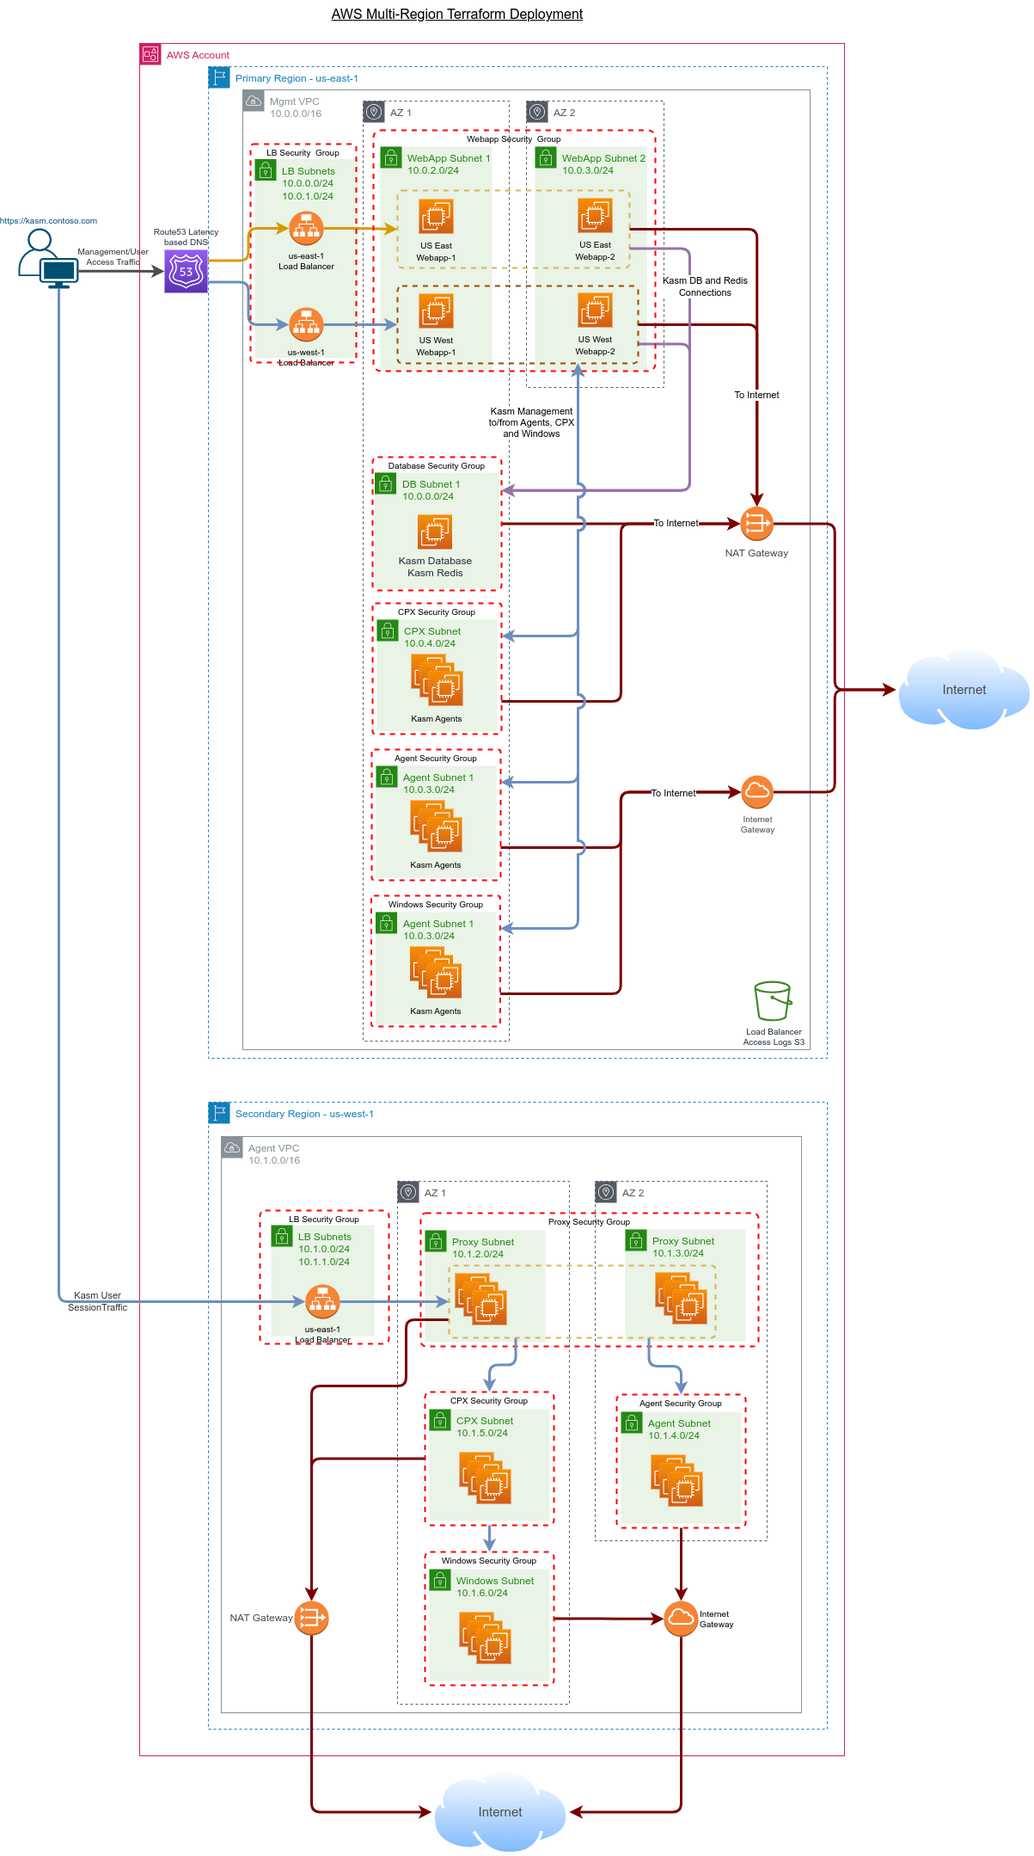
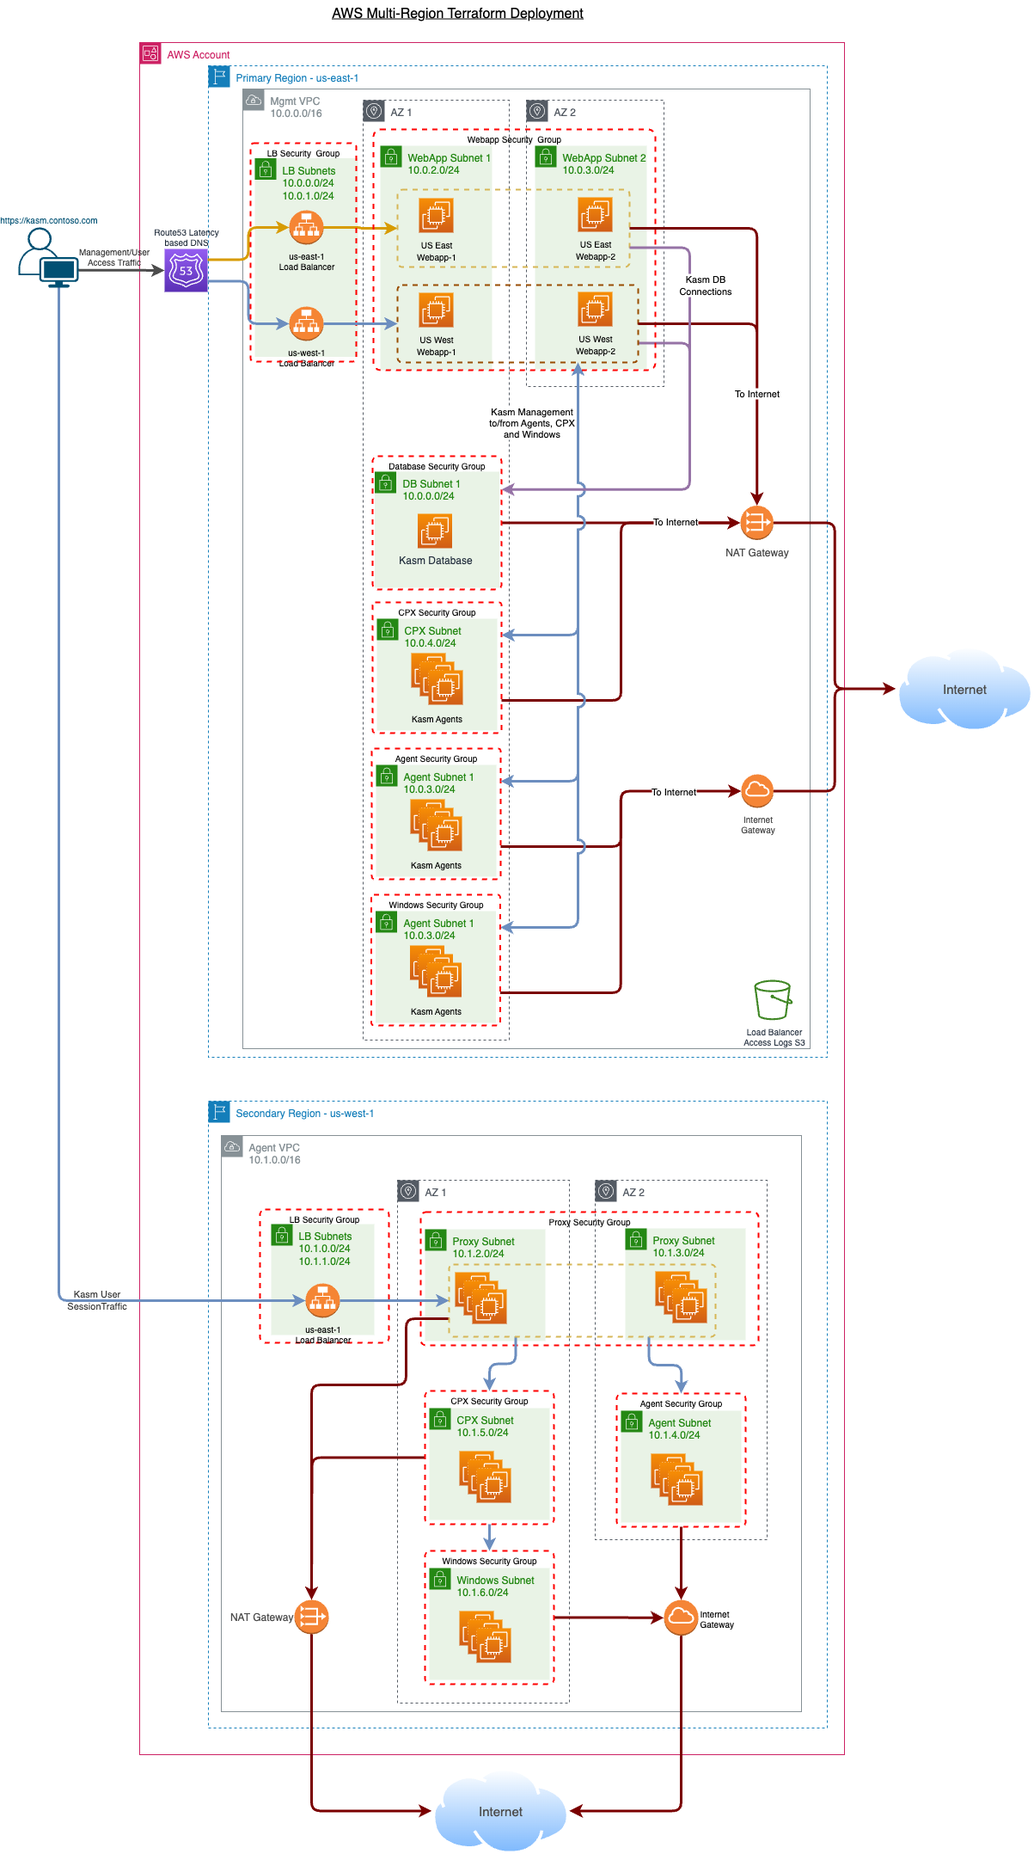
KASM-7433 "Feature/ update ancillary repos that handle install stigs etc for removal of share functionality"

diff --git a/gcp/README.md b/gcp/README.md
@@ -121,7 +121,6 @@ No resources.
 | <a name="input_kasm_firewall_security_tags"></a> [kasm\_firewall\_security\_tags](#input\_kasm\_firewall\_security\_tags) | Firewall tags to use for Kasm CPX firewall rules | <pre>object({<br>    webapp   = list(string)<br>    database = list(string)<br>    agent    = list(string)<br>    cpx      = optional(list(string), [])<br>    windows  = optional(list(string), [])<br>  })</pre> | <pre>{<br>  "agent": [<br>    "kasm-agent"<br>  ],<br>  "cpx": [<br>    "kasm-cpx"<br>  ],<br>  "database": [<br>    "database"<br>  ],<br>  "webapp": [<br>    "webapp"<br>  ],<br>  "windows": [<br>    "kasm-windows"<br>  ]<br>}</pre> | no |
 | <a name="input_kasm_manager_token"></a> [kasm\_manager\_token](#input\_kasm\_manager\_token) | The manager token value for Agents to authenticate to webapps. No special characters | `string` | `""` | no |
 | <a name="input_kasm_project_name"></a> [kasm\_project\_name](#input\_kasm\_project\_name) | Kasm deployment project name (separate from GCP Project id or Project Name) | `string` | `""` | no |
-| <a name="input_kasm_redis_password"></a> [kasm\_redis\_password](#input\_kasm\_redis\_password) | The password for the Redis server. No special characters | `string` | `""` | no |
 | <a name="input_kasm_service_token"></a> [kasm\_service\_token](#input\_kasm\_service\_token) | The service registration token value for Guac RDP servers to authenticate to webapps. No special characters | `string` | `""` | no |
 | <a name="input_kasm_source_image"></a> [kasm\_source\_image](#input\_kasm\_source\_image) | The source VM Image information to use for deploying Kasm. Recommended to use Ubuntu 20.04 Minimal. You can either explicitly define the source image to use, or the image project and family so that Terraform always chooses the latest. | <pre>object({<br>    source_image = optional(string, null)<br>    project      = optional(string, null)<br>    family       = optional(string, null)<br>  })</pre> | <pre>{<br>  "family": "ubuntu-minimal-2004-lts",<br>  "project": "ubuntu-os-cloud"<br>}</pre> | no |
 | <a name="input_kasm_user_password"></a> [kasm\_user\_password](#input\_kasm\_user\_password) | The standard (non administrator) user password. No special characters | `string` | `""` | no |
@@ -240,7 +239,6 @@ No resources.
 | <a name="input_kasm_firewall_security_tags"></a> [kasm\_firewall\_security\_tags](#input\_kasm\_firewall\_security\_tags) | Firewall tags to use for Kasm CPX firewall rules | <pre>object({<br>    webapp   = list(string)<br>    database = list(string)<br>    agent    = list(string)<br>    cpx      = optional(list(string), [])<br>    windows  = optional(list(string), [])<br>  })</pre> | <pre>{<br>  "agent": [<br>    "kasm-agent"<br>  ],<br>  "cpx": [<br>    "kasm-cpx"<br>  ],<br>  "database": [<br>    "database"<br>  ],<br>  "webapp": [<br>    "webapp"<br>  ],<br>  "windows": [<br>    "kasm-windows"<br>  ]<br>}</pre> | no |
 | <a name="input_kasm_manager_token"></a> [kasm\_manager\_token](#input\_kasm\_manager\_token) | The manager token value for Agents to authenticate to webapps. No special characters | `string` | `""` | no |
 | <a name="input_kasm_project_name"></a> [kasm\_project\_name](#input\_kasm\_project\_name) | Kasm deployment project name (separate from GCP Project id or Project Name) | `string` | `""` | no |
-| <a name="input_kasm_redis_password"></a> [kasm\_redis\_password](#input\_kasm\_redis\_password) | The password for the Redis server. No special characters | `string` | `""` | no |
 | <a name="input_kasm_service_token"></a> [kasm\_service\_token](#input\_kasm\_service\_token) | The service registration token value for Guac RDP servers to authenticate to webapps. No special characters | `string` | `""` | no |
 | <a name="input_kasm_source_image"></a> [kasm\_source\_image](#input\_kasm\_source\_image) | The source VM Image information to use for deploying Kasm. Recommended to use Ubuntu 20.04 Minimal. You can either explicitly define the source image to use, or the image project and family so that Terraform always chooses the latest. | <pre>object({<br>    source_image = optional(string, null)<br>    project      = optional(string, null)<br>    family       = optional(string, null)<br>  })</pre> | <pre>{<br>  "family": "ubuntu-minimal-2004-lts",<br>  "project": "ubuntu-os-cloud"<br>}</pre> | no |
 | <a name="input_kasm_user_password"></a> [kasm\_user\_password](#input\_kasm\_user\_password) | The standard (non administrator) user password. No special characters | `string` | `""` | no |

diff --git a/aws/standard/module/README.md b/aws/standard/module/README.md
@@ -119,7 +119,7 @@ No modules.
 | <a name="input_database_password"></a> [database\_password](#input\_database\_password) | The password for the database. No special characters | `string` | n/a | yes |
 | <a name="input_db_hdd_size_gb"></a> [db\_hdd\_size\_gb](#input\_db\_hdd\_size\_gb) | The HDD size for Kasm DB | `number` | n/a | yes |
 | <a name="input_db_instance_type"></a> [db\_instance\_type](#input\_db\_instance\_type) | The instance type for the Database | `string` | `"t3.small"` | no |
-| <a name="input_db_security_rules"></a> [db\_security\_rules](#input\_db\_security\_rules) | A map of objects of security rules to apply to the Kasm DB | <pre>map(object({<br>    from_port = number<br>    to_port   = number<br>    protocol  = string<br>  }))</pre> | <pre>{<br>  "postgres": {<br>    "from_port": 5432,<br>    "protocol": "tcp",<br>    "to_port": 5432<br>  },<br>  "redis": {<br>    "from_port": 6379,<br>    "protocol": "tcp",<br>    "to_port": 6379<br>  }<br>}</pre> | no |
+| <a name="input_db_security_rules"></a> [db\_security\_rules](#input\_db\_security\_rules) | A map of objects of security rules to apply to the Kasm DB | <pre>map(object({<br>    from_port = number<br>    to_port   = number<br>    protocol  = string<br>  }))</pre> | <pre>{<br>  "postgres": {<br>    "from_port": 5432,<br>    "protocol": "tcp",<br>    "to_port": 5432<br>  }<br>}</pre> | no |
 | <a name="input_default_egress"></a> [default\_egress](#input\_default\_egress) | Default egress security rule for all security groups | <pre>map(object({<br>    from_port    = number<br>    to_port      = number<br>    protocol     = string<br>    cidr_subnets = list(string)<br>  }))</pre> | <pre>{<br>  "all": {<br>    "cidr_subnets": [<br>      "0.0.0.0/0"<br>    ],<br>    "from_port": 0,<br>    "protocol": "-1",<br>    "to_port": 0<br>  }<br>}</pre> | no |
 | <a name="input_ec2_ami"></a> [ec2\_ami](#input\_ec2\_ami) | The AMI used for the EC2 nodes. Recommended Ubuntu 20.04 LTS. | `string` | n/a | yes |
 | <a name="input_kasm_build"></a> [kasm\_build](#input\_kasm\_build) | The URL for the Kasm Workspaces build | `string` | n/a | yes |
@@ -131,7 +131,6 @@ No modules.
 | <a name="input_private_lb_security_rules"></a> [private\_lb\_security\_rules](#input\_private\_lb\_security\_rules) | A map of objects of security rules to apply to the Private ALB | <pre>map(object({<br>    from_port = number<br>    to_port   = number<br>    protocol  = string<br>  }))</pre> | <pre>{<br>  "https": {<br>    "from_port": 443,<br>    "protocol": "tcp",<br>    "to_port": 443<br>  }<br>}</pre> | no |
 | <a name="input_project_name"></a> [project\_name](#input\_project\_name) | The name of the deployment (e.g dev, staging). A short single word | `string` | n/a | yes |
 | <a name="input_public_lb_security_rules"></a> [public\_lb\_security\_rules](#input\_public\_lb\_security\_rules) | A map of objects of security rules to apply to the Public ALB | <pre>map(object({<br>    from_port = number<br>    to_port   = number<br>    protocol  = string<br>  }))</pre> | <pre>{<br>  "http": {<br>    "from_port": 80,<br>    "protocol": "tcp",<br>    "to_port": 80<br>  },<br>  "https": {<br>    "from_port": 443,<br>    "protocol": "tcp",<br>    "to_port": 443<br>  }<br>}</pre> | no |
-| <a name="input_redis_password"></a> [redis\_password](#input\_redis\_password) | The password for the Redis server. No special characters | `string` | n/a | yes |
 | <a name="input_service_registration_token"></a> [service\_registration\_token](#input\_service\_registration\_token) | The service registration token value for cpx RDP servers to authenticate to webapps. No special characters | `string` | n/a | yes |
 | <a name="input_swap_size"></a> [swap\_size](#input\_swap\_size) | The amount of swap (in MB) to configure inside the compute instances | `number` | n/a | yes |
 | <a name="input_user_password"></a> [user\_password](#input\_user\_password) | The standard (non administrator) user password. No special characters | `string` | n/a | yes |

diff --git a/aws/multi_region/primary/README.md b/aws/multi_region/primary/README.md
@@ -94,7 +94,7 @@ No modules.
 | <a name="input_database_password"></a> [database\_password](#input\_database\_password) | The password for the database. No special characters | `string` | n/a | yes |
 | <a name="input_db_hdd_size_gb"></a> [db\_hdd\_size\_gb](#input\_db\_hdd\_size\_gb) | The HDD size in GB to configure for the Kasm Database instances | `number` | n/a | yes |
 | <a name="input_db_instance_type"></a> [db\_instance\_type](#input\_db\_instance\_type) | The instance type for the Database | `string` | n/a | yes |
-| <a name="input_db_security_rules"></a> [db\_security\_rules](#input\_db\_security\_rules) | A map of objects of security rules to apply to the Kasm DB | <pre>map(object({<br>    from_port = number<br>    to_port   = number<br>    protocol  = string<br>  }))</pre> | <pre>{<br>  "postgres": {<br>    "from_port": 5432,<br>    "protocol": "tcp",<br>    "to_port": 5432<br>  },<br>  "redis": {<br>    "from_port": 6379,<br>    "protocol": "tcp",<br>    "to_port": 6379<br>  }<br>}</pre> | no |
+| <a name="input_db_security_rules"></a> [db\_security\_rules](#input\_db\_security\_rules) | A map of objects of security rules to apply to the Kasm DB | <pre>map(object({<br>    from_port = number<br>    to_port   = number<br>    protocol  = string<br>  }))</pre> | <pre>{<br>  "postgres": {<br>    "from_port": 5432,<br>    "protocol": "tcp",<br>    "to_port": 5432<br>  },<br>}</pre> | no |
 | <a name="input_default_egress"></a> [default\_egress](#input\_default\_egress) | Default egress security rule for all security groups | <pre>map(object({<br>    from_port    = number<br>    to_port      = number<br>    protocol     = string<br>    cidr_subnets = list(string)<br>  }))</pre> | <pre>{<br>  "all": {<br>    "cidr_subnets": [<br>      "0.0.0.0/0"<br>    ],<br>    "from_port": 0,<br>    "protocol": "-1",<br>    "to_port": 0<br>  }<br>}</pre> | no |
 | <a name="input_ec2_ami"></a> [ec2\_ami](#input\_ec2\_ami) | The AMI used for the EC2 nodes. Recommended Ubuntu 22.04 LTS. | `string` | n/a | yes |
 | <a name="input_kasm_build"></a> [kasm\_build](#input\_kasm\_build) | The URL for the Kasm Workspaces build | `string` | n/a | yes |
@@ -103,7 +103,6 @@ No modules.
 | <a name="input_num_webapps"></a> [num\_webapps](#input\_num\_webapps) | The number of WebApp role servers to create in the deployment | `number` | n/a | yes |
 | <a name="input_project_name"></a> [project\_name](#input\_project\_name) | The name of the deployment (e.g dev, staging). A short single word | `string` | n/a | yes |
 | <a name="input_public_lb_security_rules"></a> [public\_lb\_security\_rules](#input\_public\_lb\_security\_rules) | A map of objects of security rules to apply to the Public ALB | <pre>map(object({<br>    from_port = number<br>    to_port   = number<br>    protocol  = string<br>  }))</pre> | <pre>{<br>  "http": {<br>    "from_port": 80,<br>    "protocol": "tcp",<br>    "to_port": 80<br>  },<br>  "https": {<br>    "from_port": 443,<br>    "protocol": "tcp",<br>    "to_port": 443<br>  }<br>}</pre> | no |
-| <a name="input_redis_password"></a> [redis\_password](#input\_redis\_password) | The password for the Redis server. No special characters | `string` | n/a | yes |
 | <a name="input_service_registration_token"></a> [service\_registration\_token](#input\_service\_registration\_token) | The service registration token value for cpx RDP servers to authenticate to webapps. No special characters | `string` | n/a | yes |
 | <a name="input_swap_size"></a> [swap\_size](#input\_swap\_size) | The amount of swap (in MB) to configure inside the compute instances | `number` | n/a | yes |
 | <a name="input_user_password"></a> [user\_password](#input\_user\_password) | The standard (non administrator) user password. No special characters | `string` | n/a | yes |

diff --git a/oci/standard/module/README.md b/oci/standard/module/README.md
@@ -38,7 +38,7 @@ No modules.
 | [oci_core_route_table.internet_gateway](https://registry.terraform.io/providers/oracle/oci/latest/docs/resources/core_route_table) | resource |
 | [oci_core_route_table.nat_gateway](https://registry.terraform.io/providers/oracle/oci/latest/docs/resources/core_route_table) | resource |
 | [oci_core_security_list.allow_bastion_ssh](https://registry.terraform.io/providers/oracle/oci/latest/docs/resources/core_security_list) | resource |
-| [oci_core_security_list.allow_db_redis](https://registry.terraform.io/providers/oracle/oci/latest/docs/resources/core_security_list) | resource |
+| [oci_core_security_list.allow_db](https://registry.terraform.io/providers/oracle/oci/latest/docs/resources/core_security_list) | resource |
 | [oci_core_security_list.allow_public_ssh](https://registry.terraform.io/providers/oracle/oci/latest/docs/resources/core_security_list) | resource |
 | [oci_core_security_list.allow_rdp_to_windows](https://registry.terraform.io/providers/oracle/oci/latest/docs/resources/core_security_list) | resource |
 | [oci_core_security_list.allow_web](https://registry.terraform.io/providers/oracle/oci/latest/docs/resources/core_security_list) | resource |
@@ -95,7 +95,6 @@ No modules.
 | <a name="input_oci_domain_name"></a> [oci\_domain\_name](#input\_oci\_domain\_name) | The public Zone used for the dns entries. This must already exist in the OCI account. (e.g kasm.contoso.com). The deployment will be accessed via this zone name via https | `string` | n/a | yes |
 | <a name="input_private_key_path"></a> [private\_key\_path](#input\_private\_key\_path) | The path to the API Key PEM encoded Private Key | `string` | n/a | yes |
 | <a name="input_project_name"></a> [project\_name](#input\_project\_name) | The name of the deployment (e.g dev, staging). A short single word | `string` | n/a | yes |
-| <a name="input_redis_password"></a> [redis\_password](#input\_redis\_password) | The password for the Redis server. No special characters | `string` | n/a | yes |
 | <a name="input_region"></a> [region](#input\_region) | The OCI Region eg: (us-ashburn-1) | `string` | n/a | yes |
 | <a name="input_service_registration_token"></a> [service\_registration\_token](#input\_service\_registration\_token) | The service registration token value for cpx RDP servers to authenticate to webapps. No special characters | `string` | n/a | yes |
 | <a name="input_ssh_authorized_keys"></a> [ssh\_authorized\_keys](#input\_ssh\_authorized\_keys) | The SSH Public Keys to be installed on the OCI compute instance | `string` | n/a | yes |

diff --git a/aws/multi_region/README.md b/aws/multi_region/README.md
@@ -15,7 +15,7 @@ is deployed.
 
 ![Diagram][Image_Diagram]
 
-[Image_Diagram]: https://5856039.fs1.hubspotusercontent-na1.net/hubfs/5856039/terraform/diagrams/aws-multi-region-new.jpg "Diagram"
+[Image_Diagram]: ../readme_diagrams/multi_region.png  "Diagram"
 
 # Pre-Configuration
 
@@ -120,7 +120,6 @@ No resources.
 | <a name="input_project_name"></a> [project\_name](#input\_project\_name) | The name of the deployment (e.g dev, staging). A short single word | `string` | n/a | yes |
 | <a name="input_proxy_hdd_size_gb"></a> [proxy\_hdd\_size\_gb](#input\_proxy\_hdd\_size\_gb) | The HDD size in GB to configure for the Kasm dedicated proxy instances | `number` | n/a | yes |
 | <a name="input_proxy_instance_type"></a> [proxy\_instance\_type](#input\_proxy\_instance\_type) | The instance type for the dedicated proxy node | `string` | `""` | no |
-| <a name="input_redis_password"></a> [redis\_password](#input\_redis\_password) | The password for the Redis server. No special characters | `string` | n/a | yes |
 | <a name="input_secondary_regions_settings"></a> [secondary\_regions\_settings](#input\_secondary\_regions\_settings) | Map of Kasm settings for secondary regions | <pre>map(object({<br>    agent_region   = string<br>    agent_vpc_cidr = string<br>    ec2_ami_id     = string<br>    })<br>  )</pre> | n/a | yes |
 | <a name="input_service_registration_token"></a> [service\_registration\_token](#input\_service\_registration\_token) | The service registration token value for cpx RDP servers to authenticate to webapps. No special characters | `string` | n/a | yes |
 | <a name="input_ssh_access_cidrs"></a> [ssh\_access\_cidrs](#input\_ssh\_access\_cidrs) | CIDR notation of the bastion host allowed to SSH in to the machines | `list(string)` | <pre>[<br>  "0.0.0.0/0"<br>]</pre> | no |

diff --git a/oci/standard/README.md b/oci/standard/README.md
@@ -4,7 +4,7 @@ This project will deploy Kasm Workspaces in a multi-server deployment in OCI.
 
 ![Diagram][Image_Diagram]
 
-[Image_Diagram]: https://f.hubspotusercontent30.net/hubfs/5856039/terraform/diagrams/oci-multi-server.png "Diagram"
+[Image_Diagram]: ../readme_diagrams/oci_multi_server.png "Diagram"
 
 
 
@@ -106,7 +106,6 @@ No resources.
 | <a name="input_oci_domain_name"></a> [oci\_domain\_name](#input\_oci\_domain\_name) | The public Zone used for the dns entries. This must already exist in the OCI account. (e.g kasm.contoso.com). The deployment will be accessed via this zone name via https | `string` | n/a | yes |
 | <a name="input_private_key_path"></a> [private\_key\_path](#input\_private\_key\_path) | The path to the API Key PEM encoded Private Key | `string` | n/a | yes |
 | <a name="input_project_name"></a> [project\_name](#input\_project\_name) | The name of the deployment (e.g dev, staging). A short single word | `string` | n/a | yes |
-| <a name="input_redis_password"></a> [redis\_password](#input\_redis\_password) | The password for the Redis server. No special characters | `string` | n/a | yes |
 | <a name="input_region"></a> [region](#input\_region) | The OCI Region eg: (us-ashburn-1) | `string` | n/a | yes |
 | <a name="input_service_registration_token"></a> [service\_registration\_token](#input\_service\_registration\_token) | The service registration token value for cpx RDP servers to authenticate to webapps. No special characters | `string` | n/a | yes |
 | <a name="input_ssh_authorized_keys"></a> [ssh\_authorized\_keys](#input\_ssh\_authorized\_keys) | The SSH Public Keys to be installed on the OCI compute instance | `string` | n/a | yes |

diff --git a/aws/standard/README.md b/aws/standard/README.md
@@ -5,7 +5,7 @@ Each role is placed in a separate subnet and traffic from user sessions on the A
 
 ![Diagram][Image_Diagram]
 
-[Image_Diagram]: https://5856039.fs1.hubspotusercontent-na1.net/hubfs/5856039/terraform/diagrams/aws-multi-server-new.jpg "Diagram"
+[Image_Diagram]: ../readme_diagrams/multi_server_single_region.png "Diagram"
 
 # Pre-Configuration
 
@@ -98,7 +98,6 @@ No resources.
 | <a name="input_num_cpx_nodes"></a> [num\_cpx\_nodes](#input\_num\_cpx\_nodes) | The number of Agent Role Servers to create in the deployment | `number` | n/a | yes |
 | <a name="input_num_webapps"></a> [num\_webapps](#input\_num\_webapps) | The number of WebApp role servers to create in the deployment | `number` | n/a | yes |
 | <a name="input_project_name"></a> [project\_name](#input\_project\_name) | The name of the deployment (e.g dev, staging). A short single word | `string` | n/a | yes |
-| <a name="input_redis_password"></a> [redis\_password](#input\_redis\_password) | The password for the Redis server. No special characters | `string` | n/a | yes |
 | <a name="input_service_registration_token"></a> [service\_registration\_token](#input\_service\_registration\_token) | The service registration token value for cpx RDP servers to authenticate to webapps. No special characters | `string` | n/a | yes |
 | <a name="input_swap_size"></a> [swap\_size](#input\_swap\_size) | The amount of swap (in MB) to configure inside the compute instances | `number` | n/a | yes |
 | <a name="input_user_password"></a> [user\_password](#input\_user\_password) | The standard (non administrator) user password. No special characters | `string` | n/a | yes |

diff --git a/aws/multi_region/webapps/README.md b/aws/multi_region/webapps/README.md
@@ -67,7 +67,6 @@ No modules.
 | <a name="input_primary_aws_region"></a> [primary\_aws\_region](#input\_primary\_aws\_region) | The AWS region for primary region of the deployment. (e.g us-east-1) | `string` | n/a | yes |
 | <a name="input_primary_vpc_id"></a> [primary\_vpc\_id](#input\_primary\_vpc\_id) | The VPC ID of the primary region | `string` | n/a | yes |
 | <a name="input_project_name"></a> [project\_name](#input\_project\_name) | The name of the deployment (e.g dev, staging). A short single word | `string` | n/a | yes |
-| <a name="input_redis_password"></a> [redis\_password](#input\_redis\_password) | The password for the database. No special characters | `string` | n/a | yes |
 | <a name="input_service_registration_token"></a> [service\_registration\_token](#input\_service\_registration\_token) | The service registration token value for cpx RDP servers to authenticate to webapps. No special characters | `string` | `""` | no |
 | <a name="input_swap_size"></a> [swap\_size](#input\_swap\_size) | The amount of swap (in MB) to configure inside the compute instances | `number` | n/a | yes |
 | <a name="input_webapp_hdd_size_gb"></a> [webapp\_hdd\_size\_gb](#input\_webapp\_hdd\_size\_gb) | The HDD size in GB to configure for the Kasm WebApp instances | `number` | n/a | yes |

diff --git a/digitalocean/single_server/README.md b/digitalocean/single_server/README.md
@@ -4,7 +4,7 @@ This project will deploy Kasm Workspaces in a single-server deployment on Digita
 
 ![Diagram][Image_Diagram]
 
-[Image_Diagram]: https://f.hubspotusercontent30.net/hubfs/5856039/terraform/diagrams/digitalocean-single-server.png "Diagram"
+[Image_Diagram]: ../readme_diagrams/single_server.png "Diagram"
 
 # Pre-Configuration
 

diff --git a/oci/single_server/README.md b/oci/single_server/README.md
@@ -4,7 +4,7 @@ This project will deploy Kasm Workspaces in a single-server deployment in OCI.
 
 ![Diagram][Image_Diagram]
 
-[Image_Diagram]: https://f.hubspotusercontent30.net/hubfs/5856039/terraform/diagrams/oci-single-server.png "Diagram"
+[Image_Diagram]: ../readme_diagrams/oci_single_server.png "Diagram"
 
 
 
